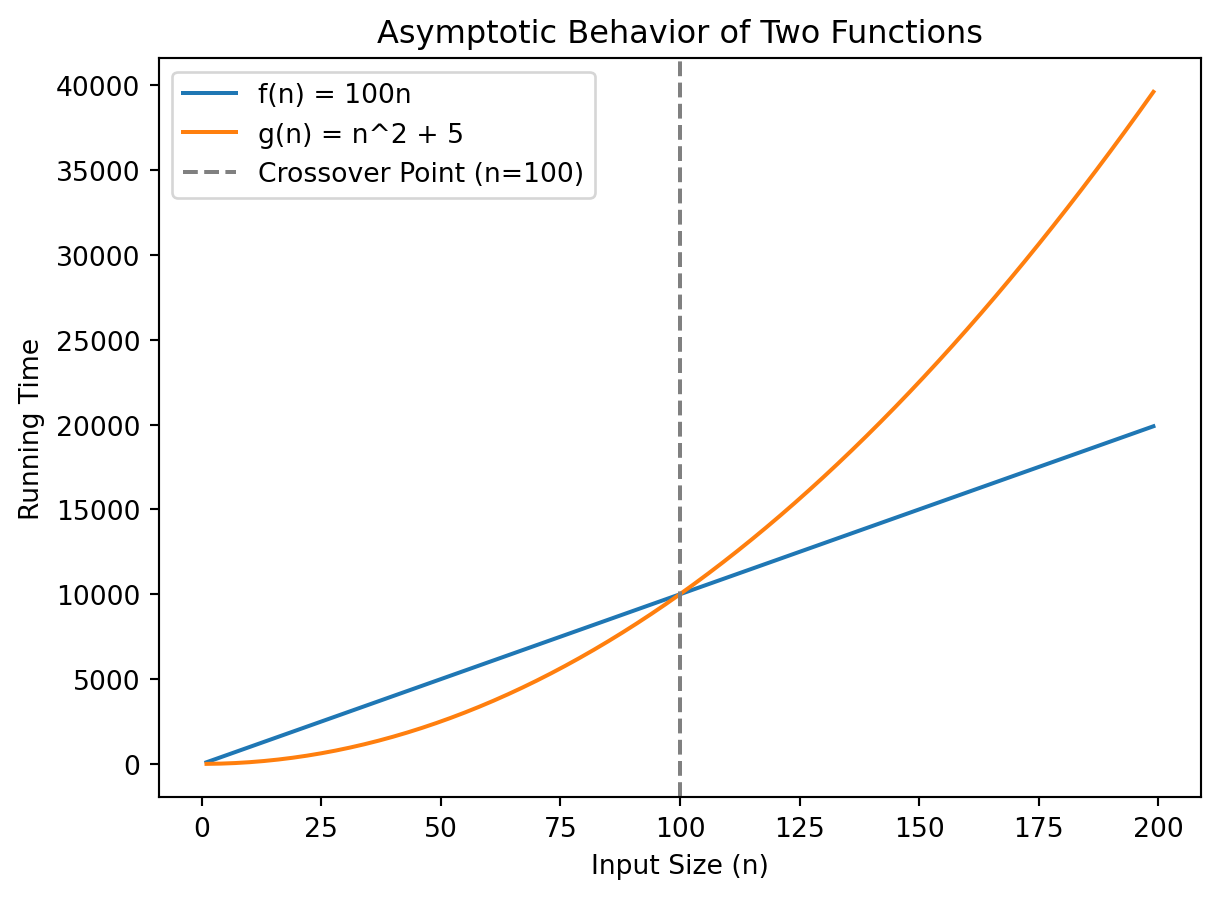
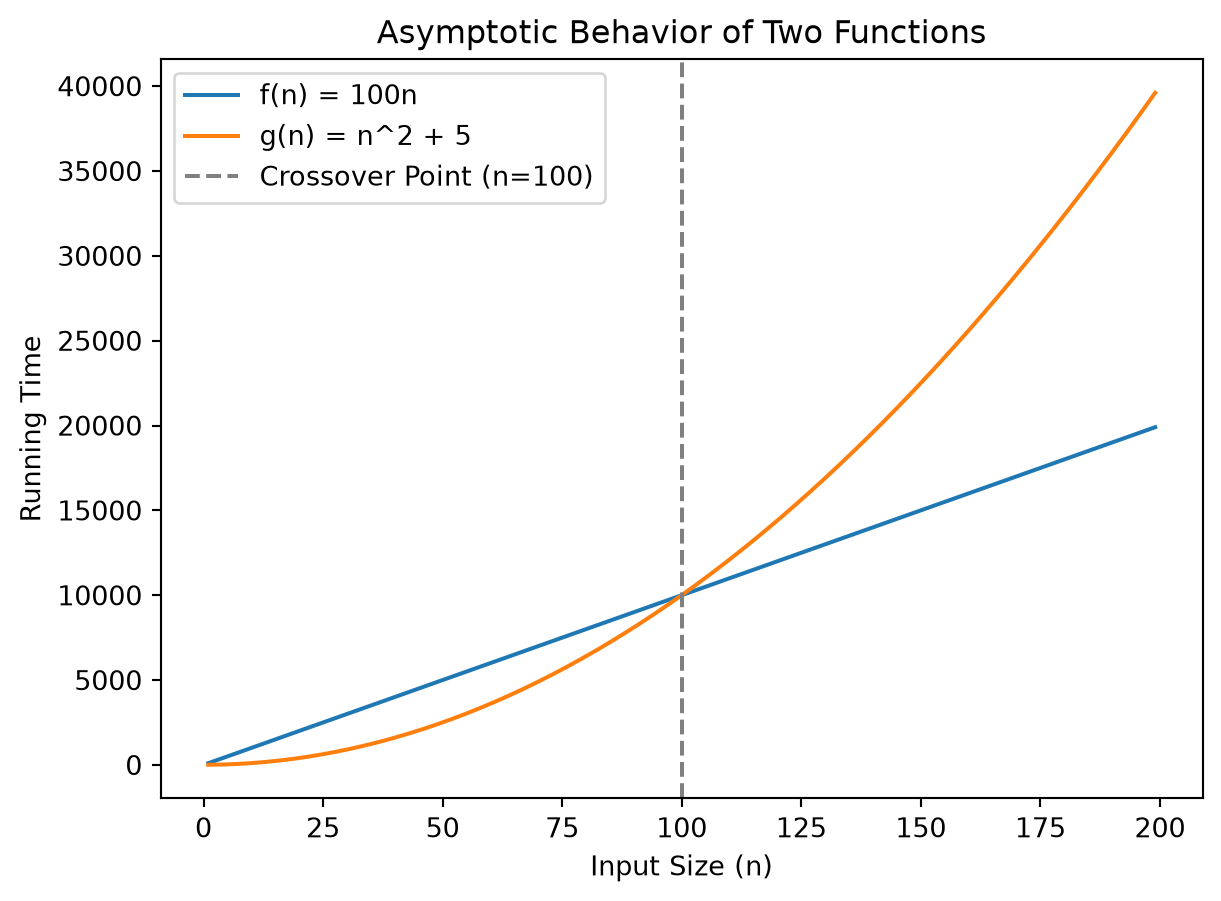
Built site for gh-pages

diff --git a/blog/foundations-of-computational-algorithms-and-computational-complexity.html b/blog/foundations-of-computational-algorithms-and-computational-complexity.html
@@ -440,7 +440,7 @@ window.Quarto = {
 f(n) = 100n \qquad \text{and} \qquad g(n)= n^2+5
 \]</span></p>
 <p>For small inputs (<span class="math inline">\(n&lt;100\)</span>), <span class="math inline">\(f(n)\)</span> is larger. However, there is a <em>crossover point</em> (<span class="math inline">\(n_0=100\)</span>), beyond which the quadratic term of <span class="math inline">\(g(n)\)</span> dominates. As <span class="math inline">\(n\to \infty\)</span>, <span class="math inline">\(g(n)\)</span> grows infinitely faster than <span class="math inline">\(f(n)\)</span>, making <span class="math inline">\(f(n)\)</span> asymptotically superior because its resource footprint grows slower.</p>
-<div id="8c8ec068" class="cell" data-execution_count="1">
+<div id="f4419e21" class="cell" data-execution_count="1">
 <div class="code-copy-outer-scaffold"><div class="sourceCode cell-code" id="cb1"><pre class="sourceCode python code-with-copy"><code class="sourceCode python"><span id="cb1-1"><a href="#cb1-1" aria-hidden="true" tabindex="-1"></a><span class="im">import</span> numpy <span class="im">as</span> np</span>
 <span id="cb1-2"><a href="#cb1-2" aria-hidden="true" tabindex="-1"></a><span class="im">import</span> matplotlib.pyplot <span class="im">as</span> plt</span>
 <span id="cb1-3"><a href="#cb1-3" aria-hidden="true" tabindex="-1"></a></span>
@@ -460,7 +460,7 @@ f(n) = 100n \qquad \text{and} \qquad g(n)= n^2+5
 <div class="cell-output cell-output-display">
 <div>
 <figure class="figure">
-<p><img src="foundations-of-computational-algorithms-and-computational-complexity_files/figure-html/cell-2-output-1.png" width="610" height="449" class="figure-img"></p>
+<p><img src="foundations-of-computational-algorithms-and-computational-complexity_files/figure-html/cell-2-output-1.png" width="611" height="451" class="figure-img"></p>
 </figure>
 </div>
 </div>
@@ -641,7 +641,7 @@ n! \gg c^n \gg n^3 \gg n^2 \gg n^{1+\epsilon}\gg n\log n \gg \sqrt{n} \gg n \gg 
 <li><strong>Operational Definition</strong>: <span class="math inline">\(T(n) = c\)</span> steps.</li>
 <li><strong>Canonical Code Template</strong>:</li>
 </ul>
-<div id="a098b0ed" class="cell" data-execution_count="2">
+<div id="193af395" class="cell" data-execution_count="2">
 <div class="code-copy-outer-scaffold"><div class="sourceCode cell-code" id="cb2"><pre class="sourceCode python code-with-copy"><code class="sourceCode python"><span id="cb2-1"><a href="#cb2-1" aria-hidden="true" tabindex="-1"></a><span class="kw">def</span> get_first_element(arr):</span>
 <span id="cb2-2"><a href="#cb2-2" aria-hidden="true" tabindex="-1"></a>    <span class="cf">return</span> arr[<span class="dv">0</span>]  <span class="co"># Accessing the first element is a constant-time operation</span></span></code></pre></div><button title="Copy to Clipboard" class="code-copy-button"><i class="bi"></i></button></div>
 </div>
@@ -661,7 +661,7 @@ n! \gg c^n \gg n^3 \gg n^2 \gg n^{1+\epsilon}\gg n\log n \gg \sqrt{n} \gg n \gg 
 <li><strong>Operational Definition</strong>: <span class="math inline">\(T(n) = T(n/2) + O(1)\)</span>.</li>
 <li><strong>Canonical Code Template</strong>:</li>
 </ul>
-<div id="eb4c9f1e" class="cell" data-execution_count="3">
+<div id="fba6f840" class="cell" data-execution_count="3">
 <div class="code-copy-outer-scaffold"><div class="sourceCode cell-code" id="cb3"><pre class="sourceCode python code-with-copy"><code class="sourceCode python"><span id="cb3-1"><a href="#cb3-1" aria-hidden="true" tabindex="-1"></a><span class="kw">def</span> binary_search_digits(n):</span>
 <span id="cb3-2"><a href="#cb3-2" aria-hidden="true" tabindex="-1"></a>    count <span class="op">=</span> <span class="dv">0</span></span>
 <span id="cb3-3"><a href="#cb3-3" aria-hidden="true" tabindex="-1"></a>    <span class="cf">while</span> n <span class="op">&gt;</span> <span class="dv">0</span>:</span>
@@ -684,7 +684,7 @@ n! \gg c^n \gg n^3 \gg n^2 \gg n^{1+\epsilon}\gg n\log n \gg \sqrt{n} \gg n \gg 
 <li><strong>Operational Definition</strong>: <span class="math inline">\(T(n) = c\cdot n\)</span>.</li>
 <li><strong>Canonical Code Template</strong>:</li>
 </ul>
-<div id="aed56e2e" class="cell" data-execution_count="4">
+<div id="cdda6bd3" class="cell" data-execution_count="4">
 <div class="code-copy-outer-scaffold"><div class="sourceCode cell-code" id="cb4"><pre class="sourceCode python code-with-copy"><code class="sourceCode python"><span id="cb4-1"><a href="#cb4-1" aria-hidden="true" tabindex="-1"></a><span class="kw">def</span> find_max_element(arr):</span>
 <span id="cb4-2"><a href="#cb4-2" aria-hidden="true" tabindex="-1"></a>    max_val <span class="op">=</span> arr[<span class="dv">0</span>]</span>
 <span id="cb4-3"><a href="#cb4-3" aria-hidden="true" tabindex="-1"></a>    <span class="cf">for</span> element <span class="kw">in</span> arr: <span class="co"># traverse the list of size $n$ exactly once</span></span>
@@ -707,7 +707,7 @@ n! \gg c^n \gg n^3 \gg n^2 \gg n^{1+\epsilon}\gg n\log n \gg \sqrt{n} \gg n \gg 
 <li><strong>Operational Definition</strong>: <span class="math inline">\(T(n) = 2T(n/2) + O(n)\)</span>.</li>
 <li><strong>Canonical Code Template</strong>:</li>
 </ul>
-<div id="7c459643" class="cell" data-execution_count="5">
+<div id="1393f5f2" class="cell" data-execution_count="5">
 <div class="code-copy-outer-scaffold"><div class="sourceCode cell-code" id="cb5"><pre class="sourceCode python code-with-copy"><code class="sourceCode python"><span id="cb5-1"><a href="#cb5-1" aria-hidden="true" tabindex="-1"></a><span class="kw">def</span> merge_sort(arr):</span>
 <span id="cb5-2"><a href="#cb5-2" aria-hidden="true" tabindex="-1"></a>    <span class="cf">if</span> <span class="bu">len</span>(arr) <span class="op">&lt;=</span> <span class="dv">1</span>:</span>
 <span id="cb5-3"><a href="#cb5-3" aria-hidden="true" tabindex="-1"></a>        <span class="cf">return</span> arr</span>
@@ -731,7 +731,7 @@ n! \gg c^n \gg n^3 \gg n^2 \gg n^{1+\epsilon}\gg n\log n \gg \sqrt{n} \gg n \gg 
 <li><strong>Operational Definition</strong>: <span class="math inline">\(T(n) = c\cdot n^2\)</span>.</li>
 <li><strong>Canonical Code Template</strong>:</li>
 </ul>
-<div id="39670317" class="cell" data-execution_count="6">
+<div id="a41f6fc1" class="cell" data-execution_count="6">
 <div class="code-copy-outer-scaffold"><div class="sourceCode cell-code" id="cb6"><pre class="sourceCode python code-with-copy"><code class="sourceCode python"><span id="cb6-1"><a href="#cb6-1" aria-hidden="true" tabindex="-1"></a><span class="kw">def</span> find_duplicates(arr):</span>
 <span id="cb6-2"><a href="#cb6-2" aria-hidden="true" tabindex="-1"></a>    n <span class="op">=</span> <span class="bu">len</span>(arr)</span>
 <span id="cb6-3"><a href="#cb6-3" aria-hidden="true" tabindex="-1"></a>    <span class="cf">for</span> i <span class="kw">in</span> <span class="bu">range</span>(n):</span>
@@ -755,7 +755,7 @@ n! \gg c^n \gg n^3 \gg n^2 \gg n^{1+\epsilon}\gg n\log n \gg \sqrt{n} \gg n \gg 
 <li><strong>Operational Definition</strong>: <span class="math inline">\(T(n) = c\cdot n^3\)</span>.</li>
 <li><strong>Canonical Code Template</strong>:</li>
 </ul>
-<div id="697d251e" class="cell" data-execution_count="7">
+<div id="c8fbc6a6" class="cell" data-execution_count="7">
 <div class="code-copy-outer-scaffold"><div class="sourceCode cell-code" id="cb7"><pre class="sourceCode python code-with-copy"><code class="sourceCode python"><span id="cb7-1"><a href="#cb7-1" aria-hidden="true" tabindex="-1"></a><span class="kw">def</span> cubic_matrix_multiplication(A, B, n):</span>
 <span id="cb7-2"><a href="#cb7-2" aria-hidden="true" tabindex="-1"></a>    C <span class="op">=</span> [[<span class="dv">0</span>] <span class="op">*</span> n <span class="cf">for</span> _ <span class="kw">in</span> <span class="bu">range</span>(n)]  <span class="co"># Initialize result matrix</span></span>
 <span id="cb7-3"><a href="#cb7-3" aria-hidden="true" tabindex="-1"></a>    <span class="cf">for</span> i <span class="kw">in</span> <span class="bu">range</span>(n):</span>
@@ -779,7 +779,7 @@ n! \gg c^n \gg n^3 \gg n^2 \gg n^{1+\epsilon}\gg n\log n \gg \sqrt{n} \gg n \gg 
 <li><strong>Operational Definition</strong>: <span class="math inline">\(T(n) = T(n-1) + T(n-2)\)</span>.</li>
 <li><strong>Canonical Code Template</strong>:</li>
 </ul>
-<div id="b0b65e6f" class="cell" data-execution_count="8">
+<div id="37db3b80" class="cell" data-execution_count="8">
 <div class="code-copy-outer-scaffold"><div class="sourceCode cell-code" id="cb8"><pre class="sourceCode python code-with-copy"><code class="sourceCode python"><span id="cb8-1"><a href="#cb8-1" aria-hidden="true" tabindex="-1"></a><span class="kw">def</span> recursive_fibonacci(n):</span>
 <span id="cb8-2"><a href="#cb8-2" aria-hidden="true" tabindex="-1"></a>    <span class="cf">if</span> n <span class="op">&lt;=</span> <span class="dv">1</span>:</span>
 <span id="cb8-3"><a href="#cb8-3" aria-hidden="true" tabindex="-1"></a>        <span class="cf">return</span> n</span>
@@ -801,7 +801,7 @@ n! \gg c^n \gg n^3 \gg n^2 \gg n^{1+\epsilon}\gg n\log n \gg \sqrt{n} \gg n \gg 
 <li><strong>Operational Definition</strong>: <span class="math inline">\(T(n) = n \cdot T(n-1)\)</span>.</li>
 <li><strong>Canonical Code Template</strong>:</li>
 </ul>
-<div id="336508d1" class="cell" data-execution_count="9">
+<div id="403858de" class="cell" data-execution_count="9">
 <div class="code-copy-outer-scaffold"><div class="sourceCode cell-code" id="cb9"><pre class="sourceCode python code-with-copy"><code class="sourceCode python"><span id="cb9-1"><a href="#cb9-1" aria-hidden="true" tabindex="-1"></a><span class="kw">def</span> generate_permutations(arr):</span>
 <span id="cb9-2"><a href="#cb9-2" aria-hidden="true" tabindex="-1"></a>    <span class="cf">if</span> <span class="bu">len</span>(arr) <span class="op">==</span> <span class="dv">0</span>:</span>
 <span id="cb9-3"><a href="#cb9-3" aria-hidden="true" tabindex="-1"></a>        <span class="cf">return</span> [[]]  <span class="co"># Base case: one permutation of an empty list</span></span>
@@ -873,7 +873,7 @@ n! \gg c^n \gg n^3 \gg n^2 \gg n^{1+\epsilon}\gg n\log n \gg \sqrt{n} \gg n \gg 
 <blockquote class="blockquote">
 <p><strong>Selection Sort Python Implementation</strong>:</p>
 </blockquote>
-<div id="e7c38aca" class="cell" data-execution_count="10">
+<div id="47ed07b1" class="cell" data-execution_count="10">
 <div class="code-copy-outer-scaffold"><div class="sourceCode cell-code" id="cb11"><pre class="sourceCode python code-with-copy"><code class="sourceCode python"><span id="cb11-1"><a href="#cb11-1" aria-hidden="true" tabindex="-1"></a><span class="kw">def</span> selection_sort(arr):</span>
 <span id="cb11-2"><a href="#cb11-2" aria-hidden="true" tabindex="-1"></a>    n <span class="op">=</span> <span class="bu">len</span>(arr)</span>
 <span id="cb11-3"><a href="#cb11-3" aria-hidden="true" tabindex="-1"></a>    <span class="cf">for</span> i <span class="kw">in</span> <span class="bu">range</span>(n):</span>
@@ -905,7 +905,7 @@ T(n) \in \Theta(n^2) (\text{quadratic time complexity})
 <blockquote class="blockquote">
 <p><strong>Naive Matrix Multiplication Python Implementation</strong></p>
 </blockquote>
-<div id="526d5608" class="cell" data-execution_count="11">
+<div id="6483e059" class="cell" data-execution_count="11">
 <div class="code-copy-outer-scaffold"><div class="sourceCode cell-code" id="cb12"><pre class="sourceCode python code-with-copy"><code class="sourceCode python"><span id="cb12-1"><a href="#cb12-1" aria-hidden="true" tabindex="-1"></a><span class="kw">def</span> matrix_multiply(A, B, x, y, z):</span>
 <span id="cb12-2"><a href="#cb12-2" aria-hidden="true" tabindex="-1"></a>    <span class="co">"""</span></span>
 <span id="cb12-3"><a href="#cb12-3" aria-hidden="true" tabindex="-1"></a><span class="co">    A is of size x * y, B is of size y * z, and C will be of size x * z.</span></span>
@@ -946,7 +946,11 @@ T(n) = \cases{
   a T(n/b) + D(n) + C(n), &amp; otherwise
 }
 \]</span></p>
-<p>For <strong>Merge Sort</strong>, we assume <span class="math inline">\(n\)</span> is an exact power of 2 for simplicity. The algorithm divides the array into <span class="math inline">\(a=2\)</span> subproblems, each of size have exactly <span class="math inline">\(n/b = n/2\)</span>. - <strong>Dividing Cost</strong> <span class="math inline">\(D(n)\)</span>: Finding the middle of the array takes constant time, <span class="math inline">\(D(n) = \Theta(1)\)</span>. - <strong>Combining Cost</strong> <span class="math inline">\(C(n)\)</span>: Merging two sorted subarrays of total size <span class="math inline">\(n\)</span> requires linear time, <span class="math inline">\(C(n) = \Theta(n)\)</span>.</p>
+<p>For <strong>Merge Sort</strong>, we assume <span class="math inline">\(n\)</span> is an exact power of 2 for simplicity. The algorithm divides the array into <span class="math inline">\(a=2\)</span> subproblems, each of size have exactly <span class="math inline">\(n/b = n/2\)</span>.</p>
+<ul>
+<li><p><strong>Dividing Cost</strong> <span class="math inline">\(D(n)\)</span>: Finding the middle of the array takes constant time, <span class="math inline">\(D(n) = \Theta(1)\)</span>.</p></li>
+<li><p><strong>Combining Cost</strong> <span class="math inline">\(C(n)\)</span>: Merging two sorted subarrays of total size <span class="math inline">\(n\)</span> requires linear time, <span class="math inline">\(C(n) = \Theta(n)\)</span>.</p></li>
+</ul>
 <p>This yields the classical recursive equation:</p>
 <p><span class="math display">\[
 T(n) = 2 T(n/2) + \Theta(n)

diff --git a/teaching/cds-303/chapter-6.html b/teaching/cds-303/chapter-6.html
@@ -720,7 +720,7 @@ Caution
 </div>
 </div>
 <div class="cell-output cell-output-display">
-<div id="fig-comparing-distance-geometries-2" class="quarto-float quarto-figure quarto-figure-center anchored" width="470" height="470">
+<div id="fig-comparing-distance-geometries-2" class="quarto-float quarto-figure quarto-figure-center anchored" height="470" width="470">
 <figure class="quarto-float quarto-subfloat-fig figure">
 <div aria-describedby="fig-comparing-distance-geometries-2-caption-0ceaefa1-69ba-4598-a22c-09a6ac19f8ca">
 <img src="chapter-6_files/figure-html/fig-comparing-distance-geometries-output-2.png" id="fig-comparing-distance-geometries-2" data-ref-parent="fig-comparing-distance-geometries" width="470" height="470" class="figure-img">
@@ -732,7 +732,7 @@ Caution
 </div>
 </div>
 <div class="cell-output cell-output-display">
-<div id="fig-comparing-distance-geometries-3" class="quarto-float quarto-figure quarto-figure-center anchored" width="470" height="470">
+<div id="fig-comparing-distance-geometries-3" class="quarto-float quarto-figure quarto-figure-center anchored" height="470" width="470">
 <figure class="quarto-float quarto-subfloat-fig figure">
 <div aria-describedby="fig-comparing-distance-geometries-3-caption-0ceaefa1-69ba-4598-a22c-09a6ac19f8ca">
 <img src="chapter-6_files/figure-html/fig-comparing-distance-geometries-output-3.png" id="fig-comparing-distance-geometries-3" data-ref-parent="fig-comparing-distance-geometries" width="470" height="470" class="figure-img">
@@ -862,7 +862,7 @@ w_i(x) = \exp\left(-\frac{d(x, x_i)^2}{2h^2}\right),
 </div>
 </div>
 <div class="cell-output cell-output-display">
-<div id="fig-knn-classification-decision-boundaries-2" class="quarto-float quarto-figure quarto-figure-center anchored" width="662" height="470">
+<div id="fig-knn-classification-decision-boundaries-2" class="quarto-float quarto-figure quarto-figure-center anchored" height="470" width="662">
 <figure class="quarto-float quarto-subfloat-fig figure">
 <div aria-describedby="fig-knn-classification-decision-boundaries-2-caption-0ceaefa1-69ba-4598-a22c-09a6ac19f8ca">
 <img src="chapter-6_files/figure-html/fig-knn-classification-decision-boundaries-output-2.png" id="fig-knn-classification-decision-boundaries-2" data-ref-parent="fig-knn-classification-decision-boundaries" width="662" height="470" class="figure-img">
@@ -874,7 +874,7 @@ w_i(x) = \exp\left(-\frac{d(x, x_i)^2}{2h^2}\right),
 </div>
 </div>
 <div class="cell-output cell-output-display">
-<div id="fig-knn-classification-decision-boundaries-3" class="quarto-float quarto-figure quarto-figure-center anchored" width="662" height="470">
+<div id="fig-knn-classification-decision-boundaries-3" class="quarto-float quarto-figure quarto-figure-center anchored" height="470" width="662">
 <figure class="quarto-float quarto-subfloat-fig figure">
 <div aria-describedby="fig-knn-classification-decision-boundaries-3-caption-0ceaefa1-69ba-4598-a22c-09a6ac19f8ca">
 <img src="chapter-6_files/figure-html/fig-knn-classification-decision-boundaries-output-3.png" id="fig-knn-classification-decision-boundaries-3" data-ref-parent="fig-knn-classification-decision-boundaries" width="662" height="470" class="figure-img">
@@ -886,7 +886,7 @@ w_i(x) = \exp\left(-\frac{d(x, x_i)^2}{2h^2}\right),
 </div>
 </div>
 <div class="cell-output cell-output-display">
-<div id="fig-knn-classification-decision-boundaries-4" class="quarto-float quarto-figure quarto-figure-center anchored" width="662" height="470">
+<div id="fig-knn-classification-decision-boundaries-4" class="quarto-float quarto-figure quarto-figure-center anchored" height="470" width="662">
 <figure class="quarto-float quarto-subfloat-fig figure">
 <div aria-describedby="fig-knn-classification-decision-boundaries-4-caption-0ceaefa1-69ba-4598-a22c-09a6ac19f8ca">
 <img src="chapter-6_files/figure-html/fig-knn-classification-decision-boundaries-output-4.png" id="fig-knn-classification-decision-boundaries-4" data-ref-parent="fig-knn-classification-decision-boundaries" width="662" height="470" class="figure-img">
@@ -989,7 +989,7 @@ J(c) = \sum_{i\in N_k(x)}(y_i-c)^2
 </div>
 </div>
 <div class="cell-output cell-output-display">
-<div id="fig-knn-regression-smoothing-2" class="quarto-float quarto-figure quarto-figure-center anchored" width="758" height="470">
+<div id="fig-knn-regression-smoothing-2" class="quarto-float quarto-figure quarto-figure-center anchored" height="470" width="758">
 <figure class="quarto-float quarto-subfloat-fig figure">
 <div aria-describedby="fig-knn-regression-smoothing-2-caption-0ceaefa1-69ba-4598-a22c-09a6ac19f8ca">
 <img src="chapter-6_files/figure-html/fig-knn-regression-smoothing-output-2.png" id="fig-knn-regression-smoothing-2" data-ref-parent="fig-knn-regression-smoothing" width="758" height="470" class="figure-img">
@@ -1001,7 +1001,7 @@ J(c) = \sum_{i\in N_k(x)}(y_i-c)^2
 </div>
 </div>
 <div class="cell-output cell-output-display">
-<div id="fig-knn-regression-smoothing-3" class="quarto-float quarto-figure quarto-figure-center anchored" width="758" height="470">
+<div id="fig-knn-regression-smoothing-3" class="quarto-float quarto-figure quarto-figure-center anchored" height="470" width="758">
 <figure class="quarto-float quarto-subfloat-fig figure">
 <div aria-describedby="fig-knn-regression-smoothing-3-caption-0ceaefa1-69ba-4598-a22c-09a6ac19f8ca">
 <img src="chapter-6_files/figure-html/fig-knn-regression-smoothing-output-3.png" id="fig-knn-regression-smoothing-3" data-ref-parent="fig-knn-regression-smoothing" width="758" height="470" class="figure-img">
@@ -1013,7 +1013,7 @@ J(c) = \sum_{i\in N_k(x)}(y_i-c)^2
 </div>
 </div>
 <div class="cell-output cell-output-display">
-<div id="fig-knn-regression-smoothing-4" class="quarto-float quarto-figure quarto-figure-center anchored" width="758" height="470">
+<div id="fig-knn-regression-smoothing-4" class="quarto-float quarto-figure quarto-figure-center anchored" height="470" width="758">
 <figure class="quarto-float quarto-subfloat-fig figure">
 <div aria-describedby="fig-knn-regression-smoothing-4-caption-0ceaefa1-69ba-4598-a22c-09a6ac19f8ca">
 <img src="chapter-6_files/figure-html/fig-knn-regression-smoothing-output-4.png" id="fig-knn-regression-smoothing-4" data-ref-parent="fig-knn-regression-smoothing" width="758" height="470" class="figure-img">

diff --git a/teaching/cds-303/chapter-7.html b/teaching/cds-303/chapter-7.html
@@ -1682,7 +1682,7 @@ K_{ij} = K(x_i, x_j)
 </div>
 </div>
 <div class="cell-output cell-output-display">
-<div id="fig-kernel-decision-boundaries-2" class="quarto-float quarto-figure quarto-figure-center anchored" width="662" height="566">
+<div id="fig-kernel-decision-boundaries-2" class="quarto-float quarto-figure quarto-figure-center anchored" height="566" width="662">
 <figure class="quarto-float quarto-subfloat-fig figure">
 <div aria-describedby="fig-kernel-decision-boundaries-2-caption-0ceaefa1-69ba-4598-a22c-09a6ac19f8ca">
 <img src="chapter-7_files/figure-html/fig-kernel-decision-boundaries-output-2.png" id="fig-kernel-decision-boundaries-2" data-ref-parent="fig-kernel-decision-boundaries" width="662" height="566" class="figure-img">
@@ -1694,7 +1694,7 @@ K_{ij} = K(x_i, x_j)
 </div>
 </div>
 <div class="cell-output cell-output-display">
-<div id="fig-kernel-decision-boundaries-3" class="quarto-float quarto-figure quarto-figure-center anchored" width="662" height="566">
+<div id="fig-kernel-decision-boundaries-3" class="quarto-float quarto-figure quarto-figure-center anchored" height="566" width="662">
 <figure class="quarto-float quarto-subfloat-fig figure">
 <div aria-describedby="fig-kernel-decision-boundaries-3-caption-0ceaefa1-69ba-4598-a22c-09a6ac19f8ca">
 <img src="chapter-7_files/figure-html/fig-kernel-decision-boundaries-output-3.png" id="fig-kernel-decision-boundaries-3" data-ref-parent="fig-kernel-decision-boundaries" width="662" height="566" class="figure-img">

diff --git a/teaching/cds-201/module-1.html b/teaching/cds-201/module-1.html
@@ -6,7 +6,7 @@
 
 <meta name="viewport" content="width=device-width, initial-scale=1.0, user-scalable=yes">
 
-<meta name="dcterms.date" content="2026-09-09">
+<meta name="dcterms.date" content="2026-09-10">
 
 <title>From Falling Stones to Social Systems – Wan Dang</title>
 <style>
@@ -471,7 +471,7 @@ window.Quarto = {
     <div>
     <div class="quarto-title-meta-heading">Published</div>
     <div class="quarto-title-meta-contents">
-      <p class="date">September 9, 2026</p>
+      <p class="date">September 10, 2026</p>
     </div>
   </div>
   
